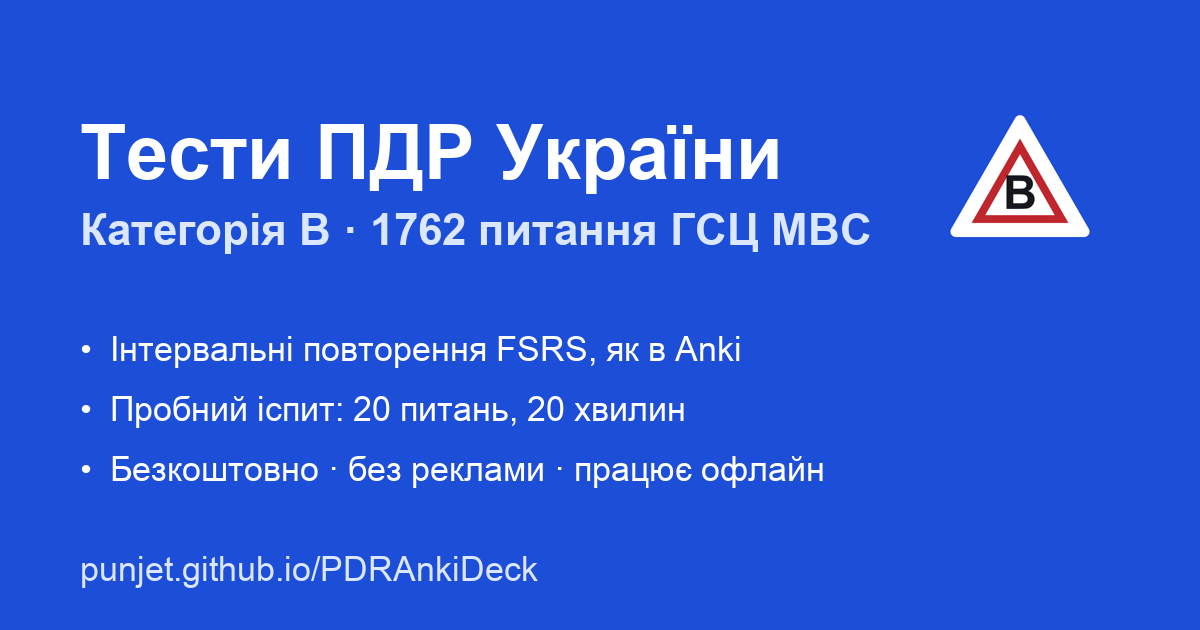
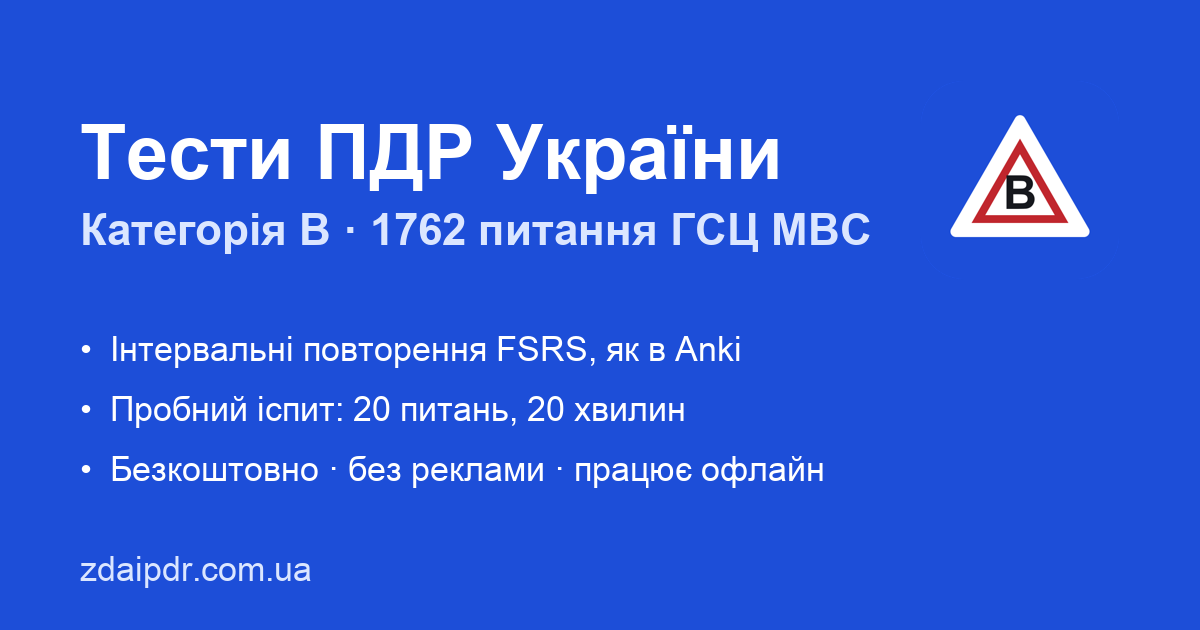
Move the site to zdaipdr.com.ua
SITE_URL, canonical links, sitemap, IndexNow and the link preview image now
use the own domain; GitHub Pages redirects the old github.io address there.

Changed region(s): [[0.0617, 0.8746, 0.4625, 0.9349]]

diff --git a/build_seo.py b/build_seo.py
@@ -26,7 +26,7 @@ import os
 import re
 from urllib.parse import urlparse
 
-SITE = os.environ.get("SITE_URL", "https://punjet.github.io/PDRAnkiDeck/")
+SITE = os.environ.get("SITE_URL", "https://zdaipdr.com.ua/")
 YEAR = str(datetime.date.today().year)
 APP_NAME = "ПДР України — категорія B"
 ROOT = os.path.dirname(os.path.abspath(__file__))

diff --git a/README.md b/README.md
@@ -7,7 +7,7 @@
 
 ## Вчити в браузері — без Anki
 
-**https://punjet.github.io/PDRAnkiDeck/** — ті самі 1762 питання, той самий порядок, без
+**https://zdaipdr.com.ua/** — ті самі 1762 питання, той самий порядок, без
 встановлення й реєстрації:
 
 - інтервальні повторення **FSRS-6** — той самий алгоритм і стандартні параметри, що в Anki
@@ -35,7 +35,7 @@
 Застосунок безкоштовний і без реклами; натомість він збирає анонімну статистику
 навчання для відкритого дослідження про підготовку до іспиту. Збір увімкнено за
 замовчуванням; вимкнути можна на сторінці
-[«Конфіденційність»](https://punjet.github.io/PDRAnkiDeck/privacy.html) (посилання внизу головної).
+[«Конфіденційність»](https://zdaipdr.com.ua/privacy.html) (посилання внизу головної).
 
 - **Збирається:** випадковий ідентифікатор браузера, номер питання, обрана відповідь і чи
   правильна, час на відповідь, оцінка FSRS і стан картки, день підготовки, година доби,
@@ -54,9 +54,9 @@
 Щоб бачити, звідки приходять люди, додавайте до посилання будь-яку свою мітку `?src=`:
 
 ```
-https://punjet.github.io/PDRAnkiDeck/?src=reddit_ukraina
-https://punjet.github.io/PDRAnkiDeck/?src=tg_avtoshkola_kyiv
-https://punjet.github.io/PDRAnkiDeck/?src=fb_prava_lviv
+https://zdaipdr.com.ua/?src=reddit_ukraina
+https://zdaipdr.com.ua/?src=tg_avtoshkola_kyiv
+https://zdaipdr.com.ua/?src=fb_prava_lviv
 ```
 
 - мітка — латиниця, цифри, `_ - .`, до 40 символів (інше замінюється на `_`, великі літери стають малими);
@@ -177,7 +177,7 @@ push у `main`. Локально: `python build_web.py data _site && python -m h
 пунктом, а також `tema/<тема>/` (теми з `data/topics.json`), `ispyt/` (пробний іспит), `pro/` (про проєкт і перевірку
 відповідей), `404.html`, `sitemap.xml` з `lastmod`, `robots.txt` і `CNAME`. Після кожного деплою
 `indexnow.py` повідомляє Bing про нові й змінені сторінки (ключ — `web/<ключ>.txt`). Адреса сайту береться зі змінної
-`SITE_URL` (типово `https://punjet.github.io/PDRAnkiDeck/`); для власного домену задайте її
+`SITE_URL` (`https://zdaipdr.com.ua/`); при зміні домену задайте її
 в `.github/workflows/pages.yml`.
 
 Сторінка питання індексується лише тоді, коли в `data/explanations.json` для нього є перевірене
